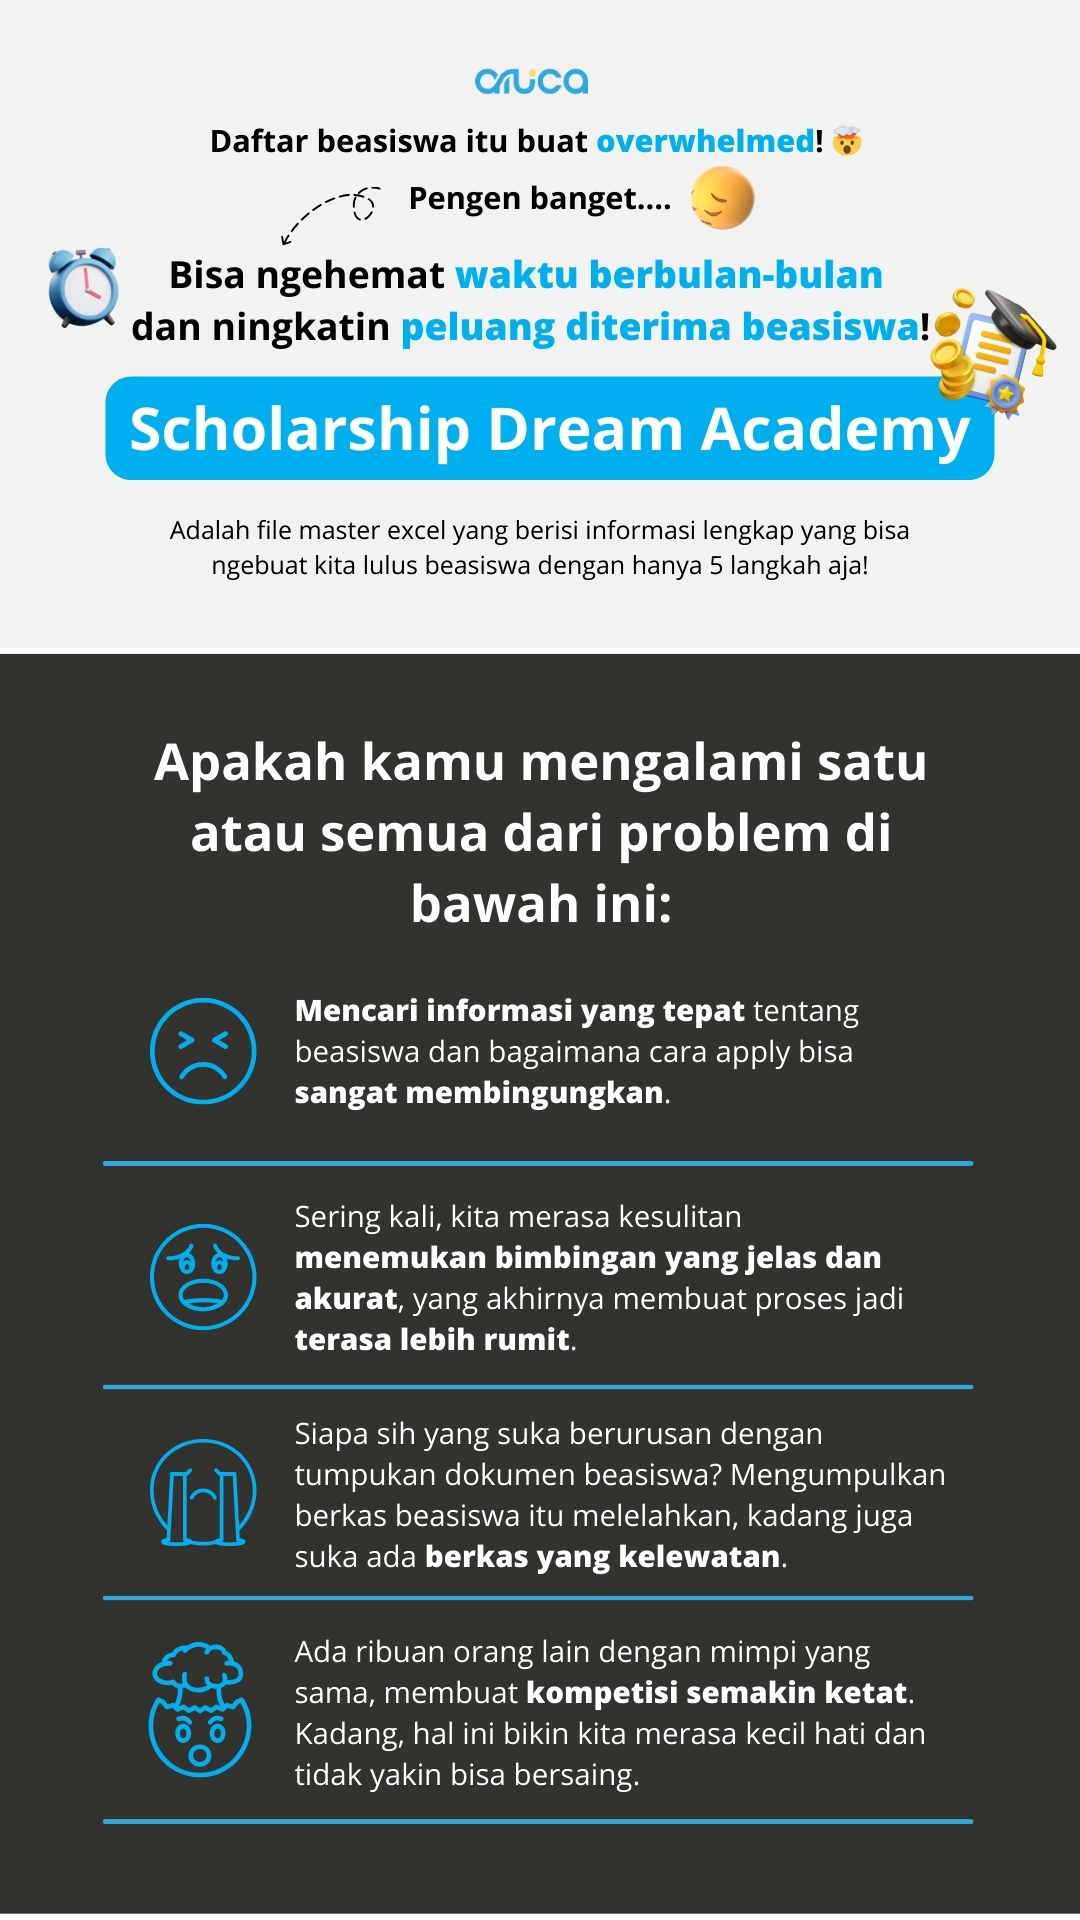
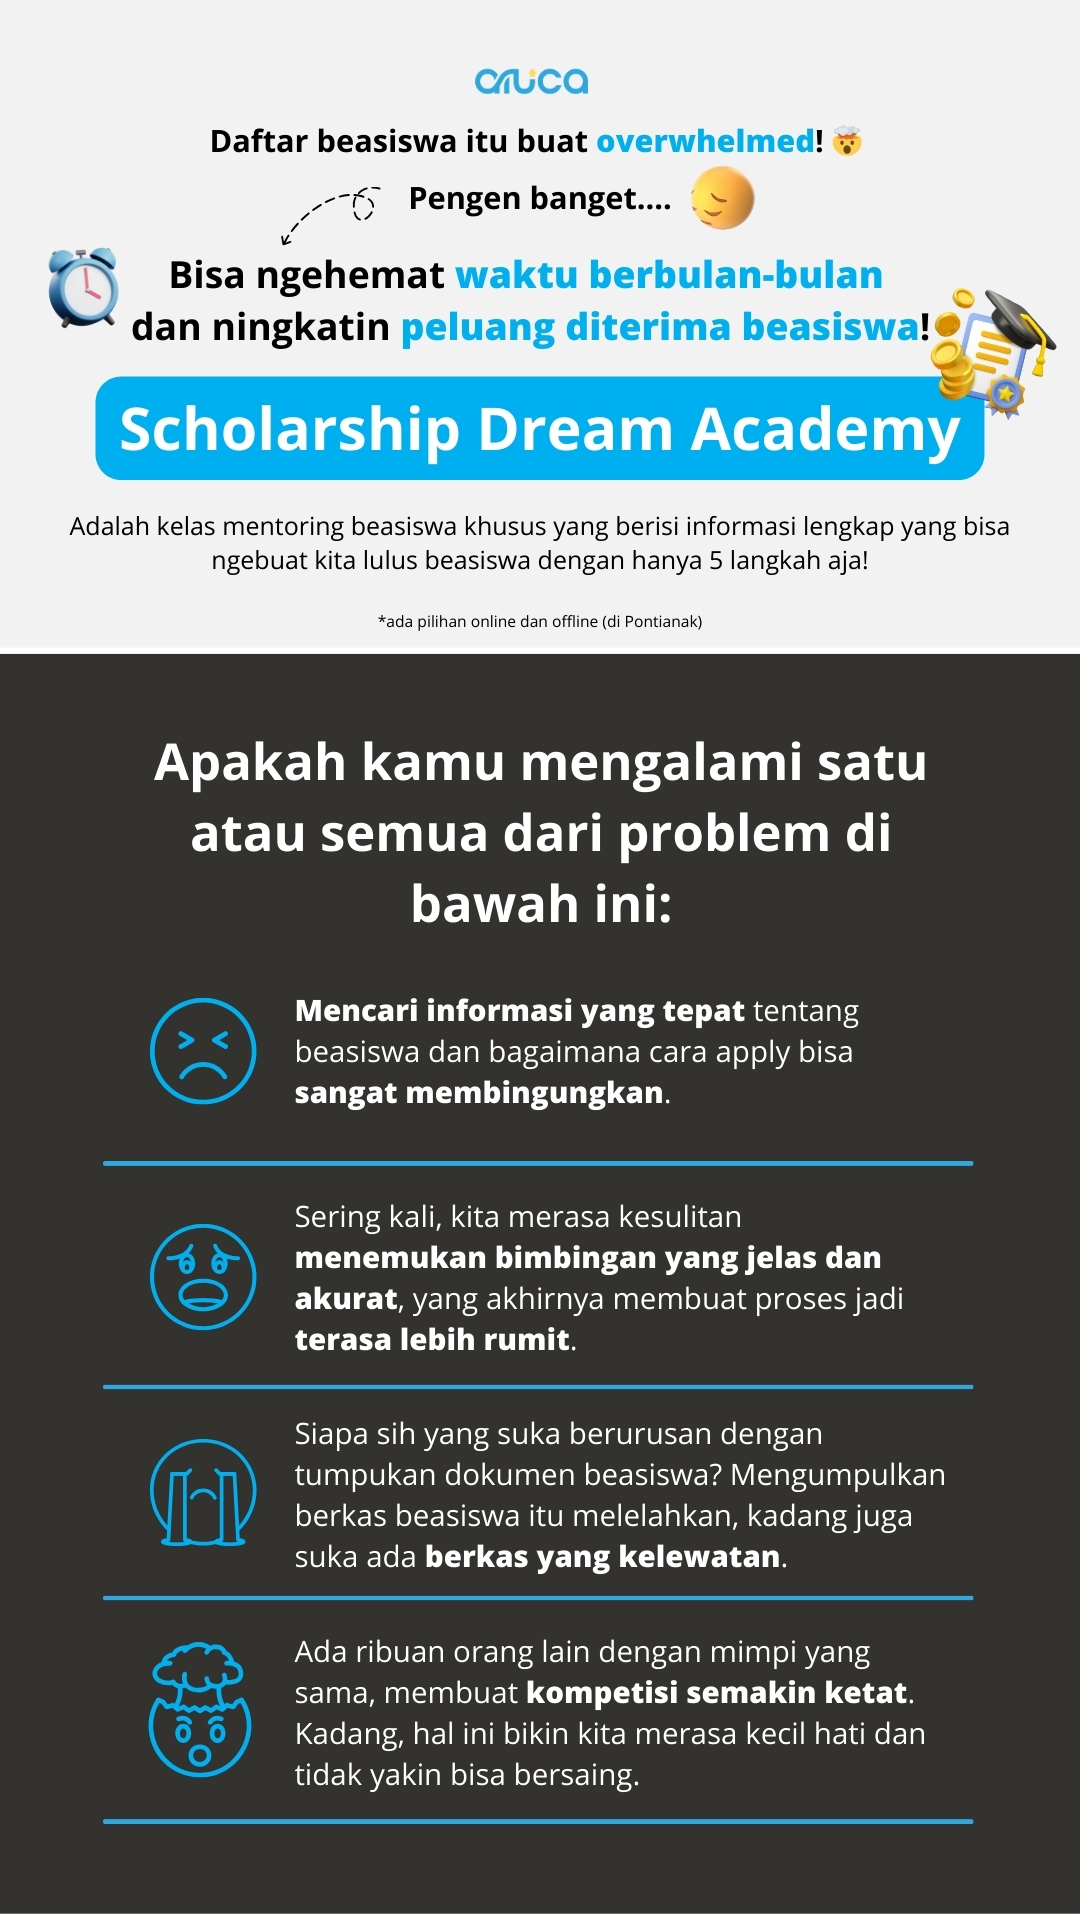
Merubah gambar intro

Changed region(s): [[0.0611, 0.1875, 0.9472, 0.3125]]

diff --git a/scholarship.html b/scholarship.html
@@ -123,7 +123,7 @@
   </section>
   <!-- 4 Section end -->
 
-  <!-- 5 Section start -->
+  <!-- 5 Section start. -->
   <section class="scholarship-5" id="scholarship-5">
     <main class="content">
       <div class="scholarship-card">
